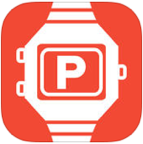
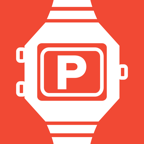
Add link to PH post
Updated apple-touch-icon too

diff --git a/index.html b/index.html
@@ -14,7 +14,7 @@ title: Time Machine - Re-discover the best products from Product Hunt.
     
     <a href="https://itunes.apple.com/us/app/product-hunt-time-machine/id956311358"><img class="appstore" src="{{ "../ProductHuntTimeMachine/img/appstore.svg" | prepend: site.baseurl }}" alt="iphone"></a>
     
-    <p>Made by <a href="http://www.producthunt.com/thomasmeagher">Product Hunter #17668</a>,<br>using <a href="http://www.producthunt.com/thomasmeagher/collections/time-machine">this collection of products</a>.</p>
+    <p>Made by <a href="http://www.producthunt.com/thomasmeagher">Product Hunter #17668</a>,<br>using <a href="http://www.producthunt.com/thomasmeagher/collections/time-machine">this collection of products</a>.<br><br><a href="http://www.producthunt.com/posts/product-hunt-timemachine" class="ph-link">Time Machine on Product Hunt</a></p>
   </div>
 
   <div class="phone">

diff --git a/_sass/_base.scss b/_sass/_base.scss
@@ -87,6 +87,10 @@ a {
   }
 }
 
+.ph-link {
+  font-size: 14px;
+}
+
 .demo {
   width: 260px;
   margin-top: 79px;
